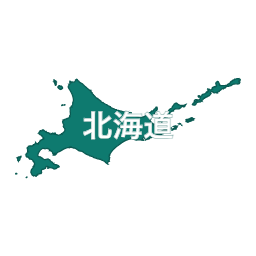
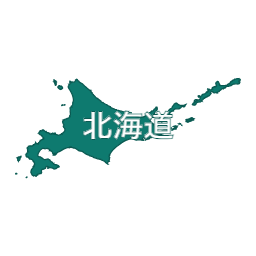
Double text stroke width for better visibility
- Update Canvas text stroke width from 0.015 to 0.03 (2x)
- Update SVG text stroke width from 0.002 to 0.004 (2x)
- Regenerate all sample icons with thicker text outline for improved readability

🤖 Generated with [Claude Code](https://claude.ai/code)

Changed region(s): [[0.3125, 0.4375, 0.6875, 0.5625]]

diff --git a/src/index.js b/src/index.js
@@ -389,7 +389,7 @@ class PrefectureIconGenerator {
       
       // Draw text stroke (outline) first
       ctx.strokeStyle = this.options.edgeColor;
-      ctx.lineWidth = size * 0.015; // Outline thickness relative to icon size (increased for better visibility)
+      ctx.lineWidth = size * 0.03; // Outline thickness relative to icon size (increased for better visibility)
       ctx.strokeText(prefName, cx, cy);
       
       // Draw text fill on top of stroke
@@ -445,7 +445,7 @@ class PrefectureIconGenerator {
 
     // Generate text element only if showText is enabled
     const textElement = this.options.showText ? `
-  <text x="${cx}" y="${cy}" fill="${this.options.textColor}" stroke="${this.options.edgeColor}" stroke-width="${size * 0.002}" font-size="${size * this.options.textSize}" font-weight="bold" text-anchor="middle" dominant-baseline="middle" font-family="sans-serif">
+  <text x="${cx}" y="${cy}" fill="${this.options.textColor}" stroke="${this.options.edgeColor}" stroke-width="${size * 0.004}" font-size="${size * this.options.textSize}" font-weight="bold" text-anchor="middle" dominant-baseline="middle" font-family="sans-serif">
     ${prefName}
   </text>` : '';
 
